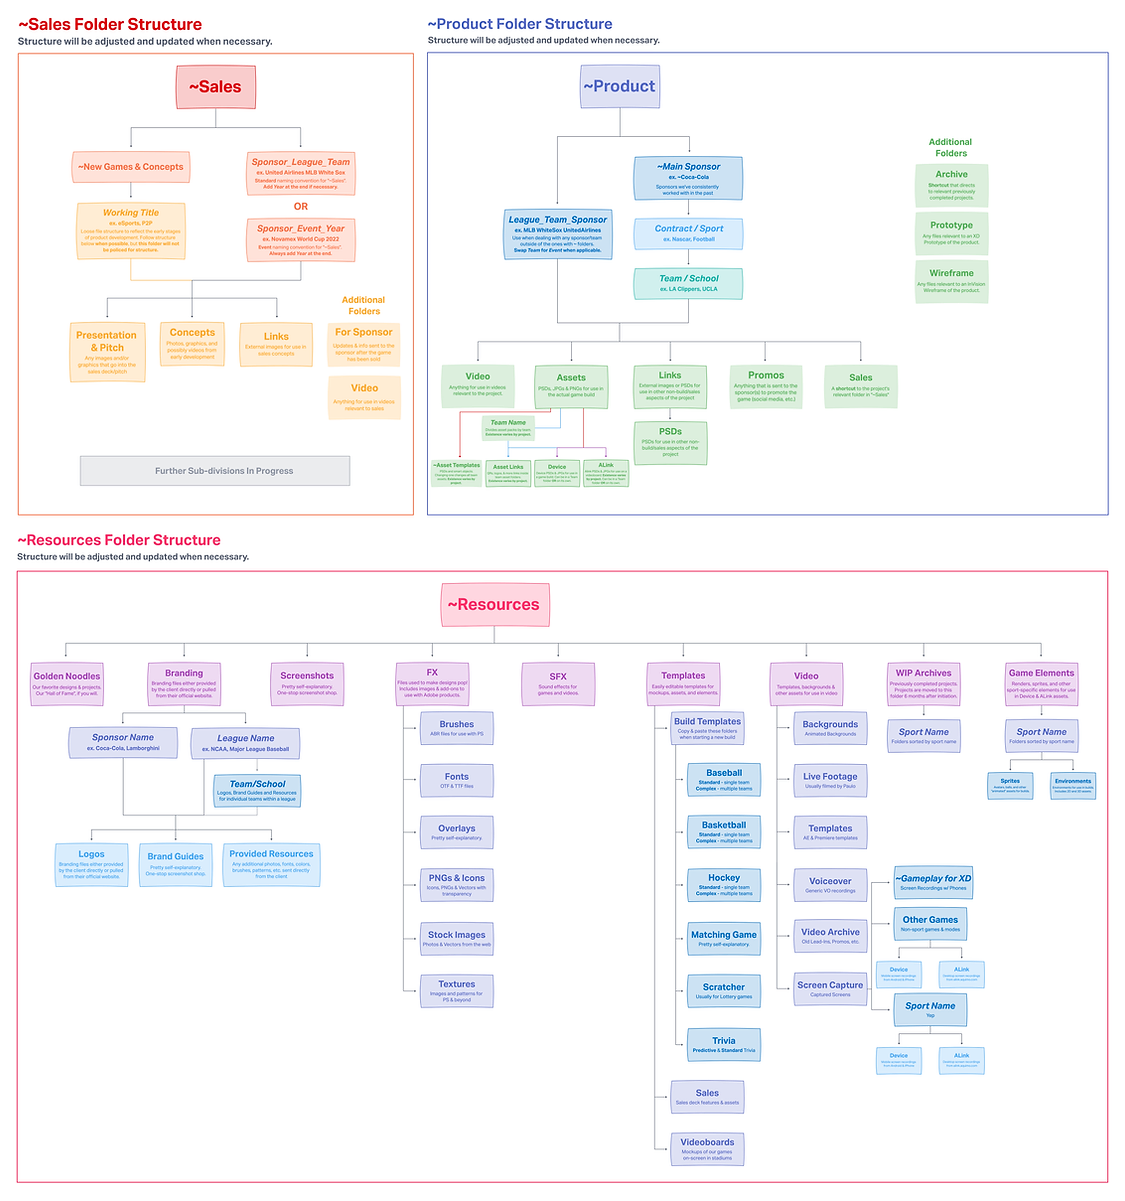
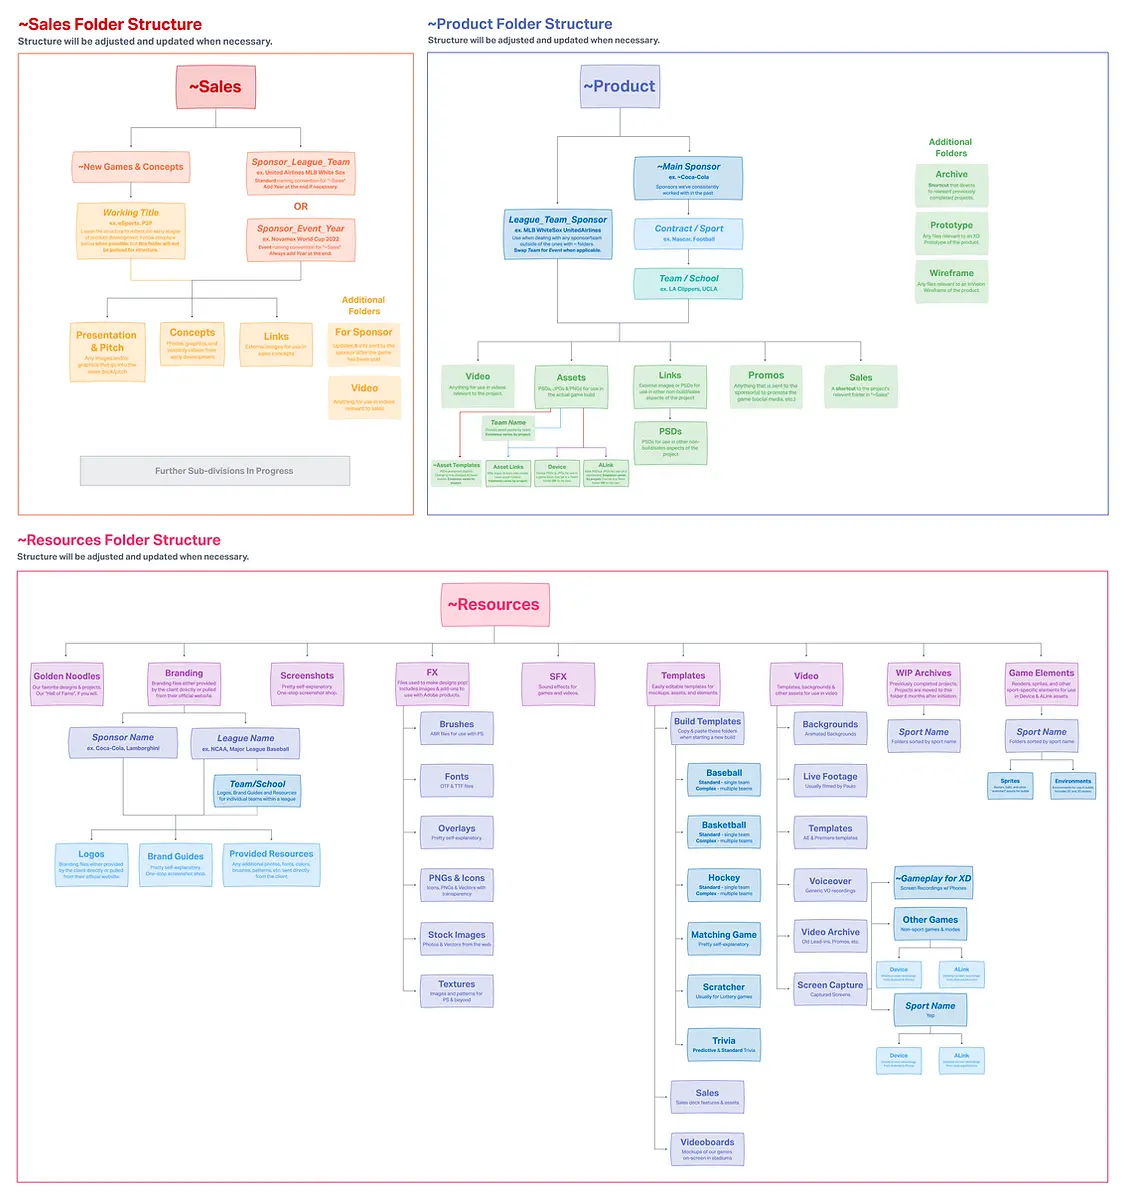
PNG conversion to WEBP

diff --git a/additional-projects/additional-projects.html b/additional-projects/additional-projects.html
@@ -36,7 +36,7 @@
                     <h2>Projects</h2>
                 </div>
                 <div class = "header-image">
-                    <img src="../base-images/Cacti.png" alt="Cactus Ornament">
+                    <img src="../base-images/Cacti.webp" alt="Cactus Ornament">
                 </div>
             </div>
             <div class="section-divider">
@@ -53,19 +53,19 @@
                         <h2>THUMBNAILS & BANNERS</h2>
                         <div id="gfx-slide1" class="gfx-slide">
                             <figure id="yt-thumbnail" class="gallery-fig" onclick="lightboxOpen()">
-                                <img src="./gfx/Thumbnail1.png" class="gallery__img" alt="YouTube Thumbnail"><p class="gallery-desc" style="display: none;">YouTube thumbnail created for a client&nbsp;&nbsp;&nbsp;|&nbsp;&nbsp;&nbsp;Size Requirement: 1280px × 720px </p>
+                                <img src="./gfx/Thumbnail1.webp" class="gallery__img" alt="YouTube Thumbnail"><p class="gallery-desc" style="display: none;">YouTube thumbnail created for a client&nbsp;&nbsp;&nbsp;|&nbsp;&nbsp;&nbsp;Size Requirement: 1280px × 720px </p>
                             </figure>
                             <figure id="avjlift-sig" class="gallery-fig" onclick="lightboxOpen()">
-                                <img src="./gfx/Av-JLift-Sig.png" class="gallery__img" alt="AVJLift Forum Signature"><p class="gallery-desc" style="display: none;">User signature for use on the Tactical Gaming forums&nbsp;&nbsp;&nbsp;|&nbsp;&nbsp;&nbsp;Size Requirement: 600px × 200px </p>
+                                <img src="./gfx/Av-JLift-Sig.webp" class="gallery__img" alt="AVJLift Forum Signature"><p class="gallery-desc" style="display: none;">User signature for use on the Tactical Gaming forums&nbsp;&nbsp;&nbsp;|&nbsp;&nbsp;&nbsp;Size Requirement: 600px × 200px </p>
                             </figure>
                             <figure id="mikko-sig" class="gallery-fig" onclick="lightboxOpen()">
-                                <img src="./gfx/mikkosig.png" class="gallery__img" alt="Mikko Forum Signature"><p class="gallery-desc" style="display: none;">User signature for use on the Tactical Gaming forums&nbsp;&nbsp;&nbsp;|&nbsp;&nbsp;&nbsp;Size Requirement: 520px × 120px</p>
+                                <img src="./gfx/mikkosig.webp" class="gallery__img" alt="Mikko Forum Signature"><p class="gallery-desc" style="display: none;">User signature for use on the Tactical Gaming forums&nbsp;&nbsp;&nbsp;|&nbsp;&nbsp;&nbsp;Size Requirement: 520px × 120px</p>
                             </figure>
                             <figure id="hellfire-squad-pb" class="gallery-fig" onclick="lightboxOpen()">
-                                <img src="./gfx/Hellfire-PB.png" class="gallery__img" alt="Hellfire Squad Banner"><p class="gallery-desc" style="display: none;">Digital banner for use on the Tactical Gaming forums&nbsp;&nbsp;&nbsp;|&nbsp;&nbsp;&nbsp;Size Requirement: 520px × 120px</p>
+                                <img src="./gfx/Hellfire-PB.webp" class="gallery__img" alt="Hellfire Squad Banner"><p class="gallery-desc" style="display: none;">Digital banner for use on the Tactical Gaming forums&nbsp;&nbsp;&nbsp;|&nbsp;&nbsp;&nbsp;Size Requirement: 520px × 120px</p>
                             </figure>
                             <figure id="totally-80s-squad-pb" class="gallery-fig" onclick="lightboxOpen()">
-                                <img src="./gfx/Totally-80-s-PB.png" class="gallery__img" alt="Totally 80's Squad Banner"><p class="gallery-desc" style="display: none;">Digital banner for use on the Tactical Gaming forums&nbsp;&nbsp;&nbsp;|&nbsp;&nbsp;&nbsp;Size Requirement: 520px × 120px</p>
+                                <img src="./gfx/Totally-80-s-PB.webp" class="gallery__img" alt="Totally 80's Squad Banner"><p class="gallery-desc" style="display: none;">Digital banner for use on the Tactical Gaming forums&nbsp;&nbsp;&nbsp;|&nbsp;&nbsp;&nbsp;Size Requirement: 520px × 120px</p>
                             </figure>
                         </div>
                     </div>
@@ -73,23 +73,23 @@
                         <h2>LOGOS & BRANDING</h2>
                         <div id="gfx-slide2" class="gfx-slide">
                             <figure id="scarlet-witch-logo" class="gallery-fig" onclick="lightboxOpen()">
-                                <img src="./gfx/scarlet-witch-logo.png" class="gallery__img" alt="Scarlet Witch Logo"><p class="gallery-desc" style="display: none;">Conceptual logo design for personal use - 2022</p>
+                                <img src="./gfx/scarlet-witch-logo.webp" class="gallery__img" alt="Scarlet Witch Logo"><p class="gallery-desc" style="display: none;">Conceptual logo design for personal use - 2022</p>
                             </figure>
                             <figure id="stella-logo" class="gallery-fig" onclick="lightboxOpen()">
                                 <span class="hoverText"></span>
-                                <img src="./gfx/stella-logo.png" class="gallery__img" alt="Stella Logo"><p class="gallery-desc" style="display: none;">Conceptual logo design for personal use - 2019</p>
+                                <img src="./gfx/stella-logo.webp" class="gallery__img" alt="Stella Logo"><p class="gallery-desc" style="display: none;">Conceptual logo design for personal use - 2019</p>
                             </figure>
                             <figure id="ensemble-logo" class="gallery-fig" onclick="lightboxOpen()">
-                                <img src="./gfx/ensemble-logo.png" class="gallery__img" alt="ORHS Ensemble Logo"><p class="gallery-desc" style="display: none;">Conceptual logo/t-shirt design for my high school chorus - 2016</p>
+                                <img src="./gfx/ensemble-logo.webp" class="gallery__img" alt="ORHS Ensemble Logo"><p class="gallery-desc" style="display: none;">Conceptual logo/t-shirt design for my high school chorus - 2016</p>
                             </figure>
                             <figure id="cactus-candle-logo" class="gallery-fig" onclick="lightboxOpen()">
                                 <img src="./gfx/CC-horizontal.svg" class="gallery__img" alt="Cactus Candle Logo"><p class="gallery-desc" style="display: none;">Logo design for client Cactus Candle - 2022</p>
                             </figure>
                             <figure id="cactus-oak-logo" class="gallery-fig" onclick="lightboxOpen()">
-                                <img src="./gfx/neon-logo.png" class="gallery__img" alt="Cactus + Oak Neon Logo"><p class="gallery-desc" style="display: none;">Conceptual logo design/photo manipulation for personal use - 2017</p>
+                                <img src="./gfx/neon-logo.webp" class="gallery__img" alt="Cactus + Oak Neon Logo"><p class="gallery-desc" style="display: none;">Conceptual logo design/photo manipulation for personal use - 2017</p>
                             </figure>
                             <figure id="gat-logo" class="gallery-fig" onclick="lightboxOpen()">
-                                <img src="./gfx/GAT-logo.png" class="gallery__img" alt="Girl About Town Logo"><p class="gallery-desc" style="display: none;">Logo design for Girl About Town - 2019</p>
+                                <img src="./gfx/GAT-logo.webp" class="gallery__img" alt="Girl About Town Logo"><p class="gallery-desc" style="display: none;">Logo design for Girl About Town - 2019</p>
                             </figure>
                         </div>
                     </div>
@@ -97,14 +97,14 @@
                         <h2>CARDS, LABELS & SIGNS</h2>
                         <div id="gfx-slide3" class="gfx-slide">
                             <figure id="pff-card-back" class="gallery-fig" onclick="lightboxOpen()">
-                                <img src="./gfx/pff-card-back.png" class="gallery__img" alt="Promotional Card - Back"><p class="gallery-desc" style="display: none;">Promotional card for Pearce Family Foundation (1/2) - 2019&nbsp;&nbsp;&nbsp;|&nbsp;&nbsp;&nbsp;Size Requirement: 5" × 7"</p>
+                                <img src="./gfx/pff-card-back.webp" class="gallery__img" alt="Promotional Card - Back"><p class="gallery-desc" style="display: none;">Promotional card for Pearce Family Foundation (1/2) - 2019&nbsp;&nbsp;&nbsp;|&nbsp;&nbsp;&nbsp;Size Requirement: 5" × 7"</p>
                             </figure>
                             <figure id="pff-card-front" class="gallery-fig" onclick="lightboxOpen()">
                                 <span class="hoverText"></span>
-                                <img src="./gfx/pff-card-front.png" class="gallery__img" alt="Promotional Card - Front"><p class="gallery-desc" style="display: none;">Promotional card for Pearce Family Foundation (2/2) - 2019&nbsp;&nbsp;&nbsp;|&nbsp;&nbsp;&nbsp;Size Requirement: 5" × 7"</p>
+                                <img src="./gfx/pff-card-front.webp" class="gallery__img" alt="Promotional Card - Front"><p class="gallery-desc" style="display: none;">Promotional card for Pearce Family Foundation (2/2) - 2019&nbsp;&nbsp;&nbsp;|&nbsp;&nbsp;&nbsp;Size Requirement: 5" × 7"</p>
                             </figure>
                             <figure id="ben-sign" class="gallery-fig" onclick="lightboxOpen()">
-                                <img src="./gfx/ben-sign.png" class="gallery__img" alt="Class of 2020 Yard Sign"><p class="gallery-desc" style="display: none;">Yard sign for graduates of Oak Ridge High School - 2020&nbsp;&nbsp;&nbsp;|&nbsp;&nbsp;&nbsp;Size Requirement: 24" × 18"</p>
+                                <img src="./gfx/ben-sign.webp" class="gallery__img" alt="Class of 2020 Yard Sign"><p class="gallery-desc" style="display: none;">Yard sign for graduates of Oak Ridge High School - 2020&nbsp;&nbsp;&nbsp;|&nbsp;&nbsp;&nbsp;Size Requirement: 24" × 18"</p>
                             </figure>
                         </div>
                     </div>
@@ -151,7 +151,7 @@
                     <div title="slide-1" class="slides">
                         <h2>PERSONAL IPHONE STATISTICS</h2>
                         <div id="datavis-slide1" class="datavis-slide" onclick="openPDF1()">
-                            <img src="./data-vis/iphone-stats.png" alt="View 'iPhone Statistics' Data Visualization">
+                            <img src="./data-vis/iphone-stats.webp" alt="View 'iPhone Statistics' Data Visualization">
                             <h3>Analyzing My Screen Time</h3>
                             <p>Created for educational purposes</p>
                         </div>
@@ -159,7 +159,7 @@
                     <div title="slide-2" class="slides">
                         <h2>Console Wars</h2>
                         <div id="datavis-slide2" class="datavis-slide" onclick="openPDF2()">
-                            <img src="./data-vis/king-mario.png" alt="View 'Console Wars' Data Visualization">
+                            <img src="./data-vis/king-mario.webp" alt="View 'Console Wars' Data Visualization">
                             <h3>Analyzing Gaming Console Sales</h3>
                             <p>Created for educational purposes</p>
                         </div>
@@ -167,7 +167,7 @@
                     <div title="slide-3" class="slides gfx" onclick="openPDF3()">
                         <h2>COMMON WORKPLACE INJURIES</h2>
                         <div id="datavis-slide3" class="datavis-slide">
-                            <img src="./data-vis/workplace-injuries.png" alt="View 'Workplace Injuries' Data Visualization">
+                            <img src="./data-vis/workplace-injuries.webp" alt="View 'Workplace Injuries' Data Visualization">
                             <h3>Raising Injury Awareness</h3>
                             <p>Created for a client</p>
                         </div>

diff --git a/commercial-projects/organization.html b/commercial-projects/organization.html
@@ -72,13 +72,13 @@
                     </ul>
                     <h2>Ideation</h2>
                     <p>Using InVision, I created the following basic flows as a starting point.</p>
-                    <img src="./organization/ideation.png" id="ideation" alt="Organizational Structure Ideation">
+                    <img src="./organization/ideation.webp" id="ideation" alt="Organizational Structure Ideation">
                     <h2>Iteration</h2>
                     <p>These flows were built to be flexible. Considering the number of files I’d been tasked with organizing, I consulted with other members of the design team to discuss which additional folders we could add while keeping the structure as simple as possible. This next iteration is shown below.</p>
-                    <img src="./organization/file-skeleton.png" id="file-skeleton" alt="Organizational Structure Iteration">
+                    <img src="./organization/file-skeleton.webp" id="file-skeleton" alt="Organizational Structure Iteration">
                     <h2>The Final Flows</h2>
                     <p>After further discussing the folders with fellow members and management of the design team, we eventually settled on the following final flows. While I anticipate them changing slightly as implementation continues, these flows accurately depict the most important aspects of the new structure.</p>
-                    <img src="./organization/final-iteration.png" alt="Final Organizational Structure">
+                    <img src="./organization/final-iteration.webp" alt="Final Organizational Structure">
                 </div>
             </section>
             <section class="case-section org">

diff --git a/about-me.html b/about-me.html
@@ -35,7 +35,7 @@
                     <h2>about me</h2>
                 </div>
                 <div class= "header-image">
-                    <img src="./base-images/Cacti.png" alt="Cactus Ornament">
+                    <img src="./base-images/Cacti.webp" alt="Cactus Ornament">
                 </div>
             </div>
             <div class="section-divider">
@@ -44,7 +44,7 @@
             <section id="elena-m" class="about">
                 <div id="left">
                     <h1>Elena Martin</h1>
-                    <a href="https://www.linkedin.com/in/elena-martin-az/" id="social"><img src="./about-me/images/linkedin-icon.png" class="social-icon" alt="LinkedIn Icon"></a>
+                    <a href="https://www.linkedin.com/in/elena-martin-az/" id="social"><img src="./about-me/images/linkedin-icon.webp" class="social-icon" alt="LinkedIn Icon"></a>
                     <h2>Hey, that's me!</h2>
                     <p>Hi! My name is Elena, and I’m a little obsessed with design.
                         UX design, website design, branding design, print design, interior design…

diff --git a/portfolio.html b/portfolio.html
@@ -34,7 +34,7 @@
                     <h2>Portfolio</h2>
                 </div>
                 <div class = "header-image" style="margin-left: 5px;">
-                    <img src="./base-images/Cacti.png" alt="Cactus Ornament">
+                    <img src="./base-images/Cacti.webp" alt="Cactus Ornament">
                 </div>
             </div>
             <div class="section-divider">

diff --git a/commercial-projects/commercial.html b/commercial-projects/commercial.html
@@ -41,7 +41,7 @@
                     <h2>Projects</h2>
                 </div>
                 <div class = "header-image">
-                    <img src="../base-images/Cacti.png" alt="Cactus Ornament">
+                    <img src="../base-images/Cacti.webp" alt="Cactus Ornament">
                 </div>
             </div>
             <div class="section-divider">
